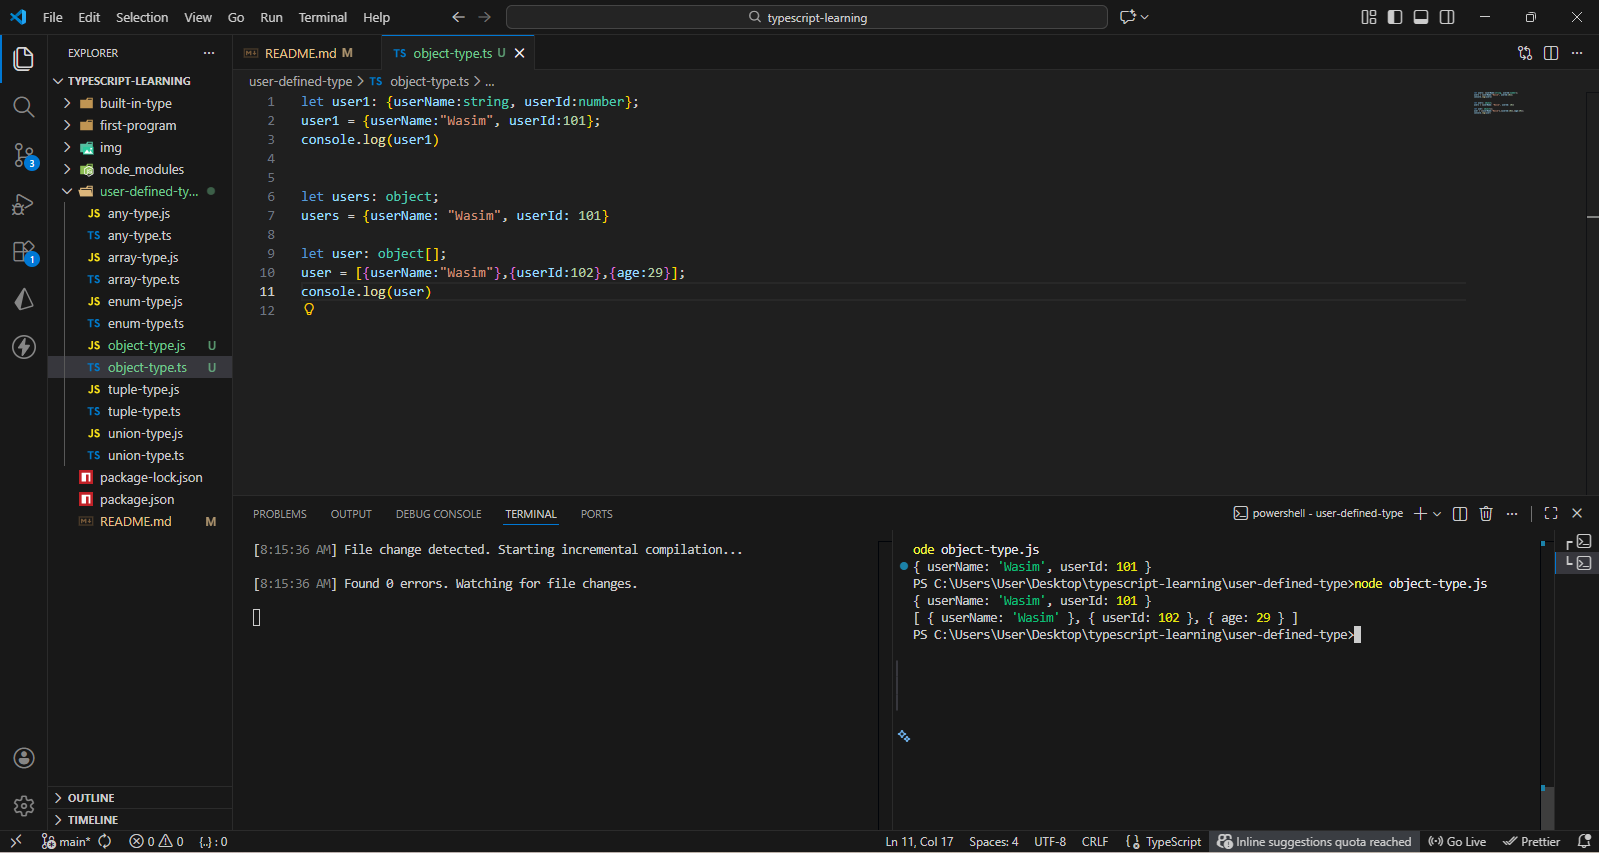
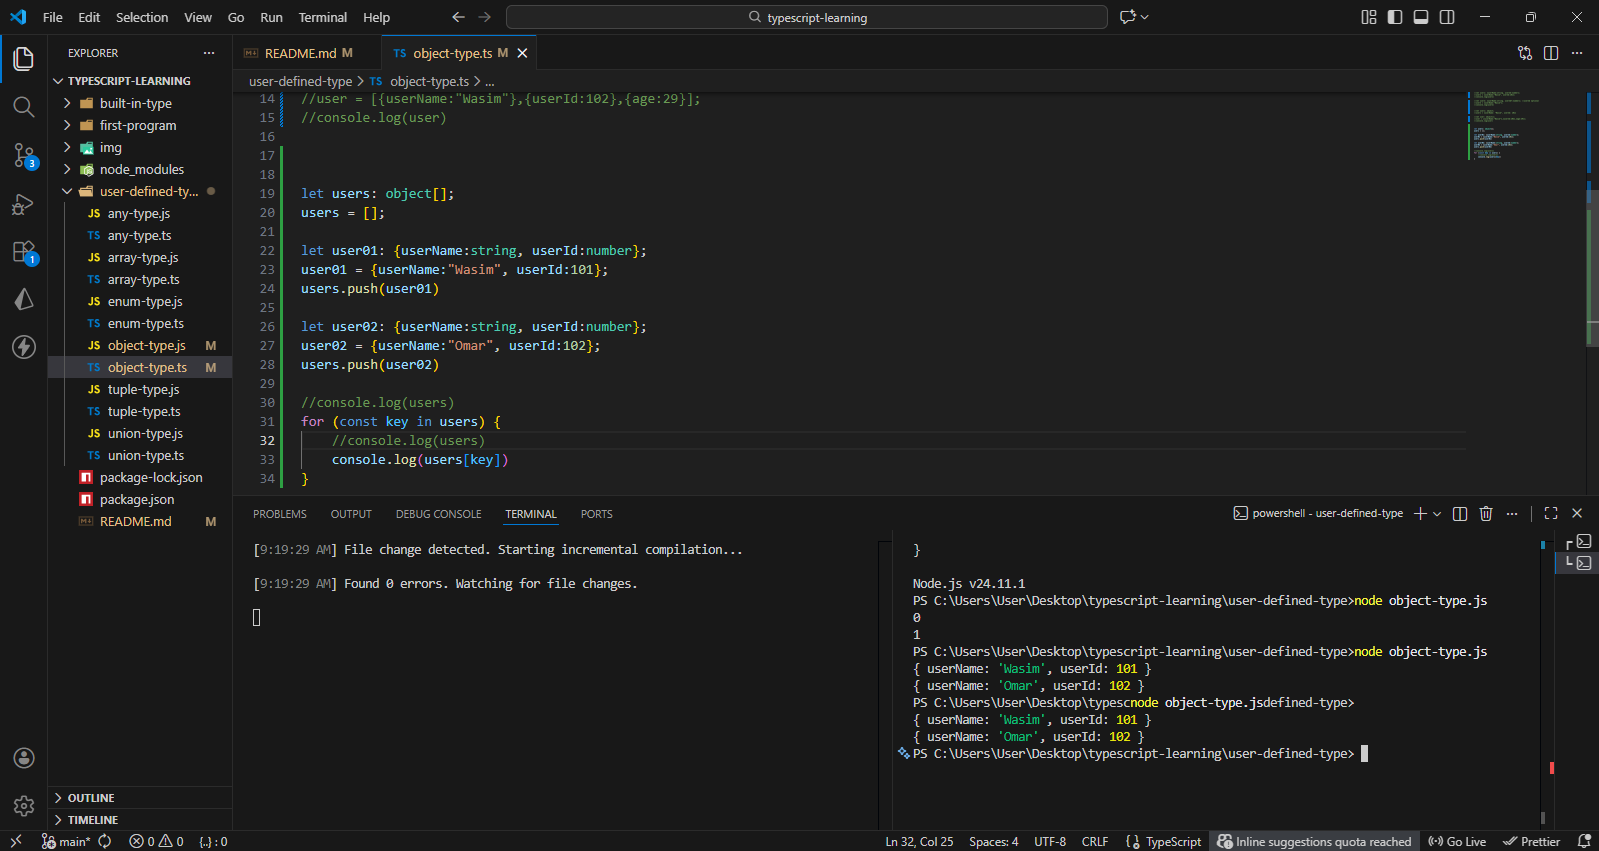
Object type

diff --git a/user-defined-type/object-type.ts b/user-defined-type/object-type.ts
@@ -1,11 +1,34 @@
-let user1: {userName:string, userId:number};
-user1 = {userName:"Wasim", userId:101};
-console.log(user1)
+//let user1: {userName:string, userId:number};
+//user1 = {userName:"Wasim", userId:101};
+//console.log(user1)
+
+//let user2: {userName:string, userId?:number}; //userId optional
+//user2 = {userName:"Wasim"};
+//console.log(user2)
 
 
-let users: object;
-users = {userName: "Wasim", userId: 101}
+//let users: object;
+//users = {userName: "Wasim", userId: 101}
 
-let user: object[];
-user = [{userName:"Wasim"},{userId:102},{age:29}];
-console.log(user)
+//let user: object[];
+//user = [{userName:"Wasim"},{userId:102},{age:29}];
+//console.log(user)
+
+
+
+let users: object[];
+users = [];
+
+let user01: {userName:string, userId:number};
+user01 = {userName:"Wasim", userId:101};
+users.push(user01)
+
+let user02: {userName:string, userId:number};
+user02 = {userName:"Omar", userId:102};
+users.push(user02)
+
+//console.log(users)
+for (const key in users) {
+    //console.log(users)
+    console.log(users[key])
+}

diff --git a/user-defined-type/object-type.js b/user-defined-type/object-type.js
@@ -1,8 +1,24 @@
-var user1;
-user1 = { userName: "Wasim", userId: 101 };
-console.log(user1);
+//let user1: {userName:string, userId:number};
+//user1 = {userName:"Wasim", userId:101};
+//console.log(user1)
+//let user2: {userName:string, userId?:number}; //userId optional
+//user2 = {userName:"Wasim"};
+//console.log(user2)
+//let users: object;
+//users = {userName: "Wasim", userId: 101}
+//let user: object[];
+//user = [{userName:"Wasim"},{userId:102},{age:29}];
+//console.log(user)
 var users;
-users = { userName: "Wasim", userId: 101 };
-var user;
-user = [{ userName: "Wasim" }, { userId: 102 }, { age: 29 }];
-console.log(user);
+users = [];
+var user01;
+user01 = { userName: "Wasim", userId: 101 };
+users.push(user01);
+var user02;
+user02 = { userName: "Omar", userId: 102 };
+users.push(user02);
+//console.log(users)
+for (var key in users) {
+    //console.log(users)
+    console.log(users[key]);
+}

diff --git a/README.md b/README.md
@@ -330,16 +330,39 @@ userName = [10,20];
 
 1. **TypeScript ফাইল তৈরি করুন** (`index.ts`)
 ```typescript
-let user1: {userName:string, userId:number};
-user1 = {userName:"Wasim", userId:101};
-console.log(user1)
+//let user1: {userName:string, userId:number};
+//user1 = {userName:"Wasim", userId:101};
+//console.log(user1)
+
+//let user2: {userName:string, userId?:number}; //userId optional
+//user2 = {userName:"Wasim"};
+//console.log(user2)
 
 
-let users: object;
-users = {userName: "Wasim", userId: 101}
+//let users: object;
+//users = {userName: "Wasim", userId: 101}
 
-let user: object[];
-user = [{userName:"Wasim"},{userId:102},{age:29}];
-console.log(user)
+//let user: object[];
+//user = [{userName:"Wasim"},{userId:102},{age:29}];
+//console.log(user)
+
+
+
+let users: object[];
+users = [];
+
+let user01: {userName:string, userId:number};
+user01 = {userName:"Wasim", userId:101};
+users.push(user01)
+
+let user02: {userName:string, userId:number};
+user02 = {userName:"Omar", userId:102};
+users.push(user02)
+
+//console.log(users)
+for (const key in users) {
+    //console.log(users)
+    console.log(users[key])
+}
 ```
 ---
